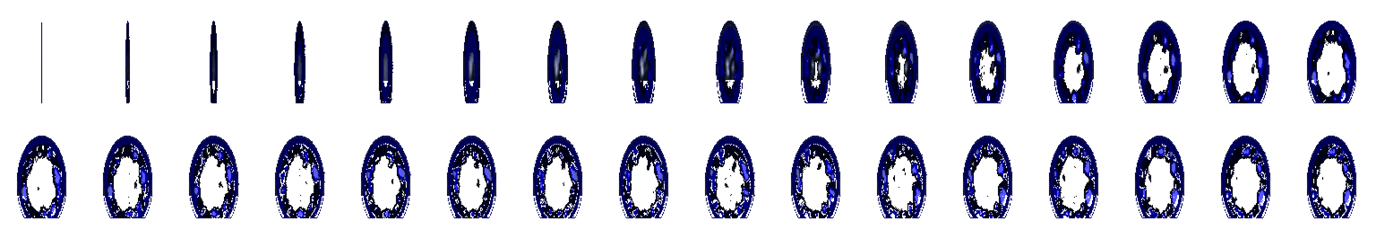
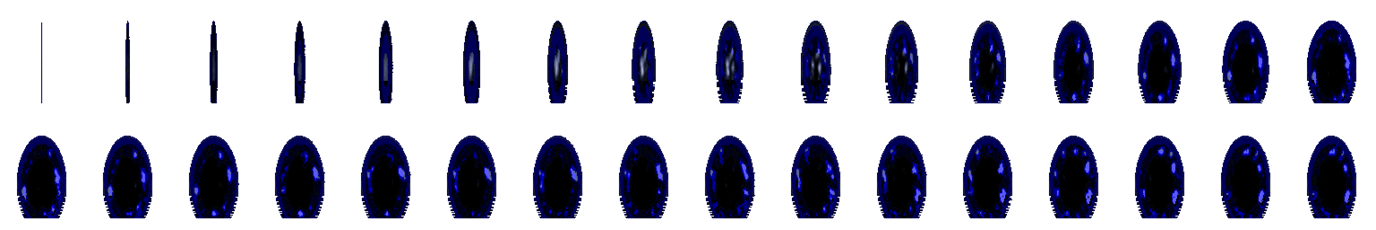
v1.12.090: the town portal's black centre is back in town (user: "the main blue town portal asset lost its black center when you shrunk it to 90% ... a transparent hole in the center") - vanilla's oval interior is palette index 0, opaque black in the CL2 but transparent once exported, and the 90% to

diff --git a/.ProjectDocumentation/02-Development-Reports/2026-09-20-town-portal-black-centre-v1.12.090.md b/.ProjectDocumentation/02-Development-Reports/2026-09-20-town-portal-black-centre-v1.12.090.md
@@ -1,0 +1,26 @@
+# The town portal's black centre is back (v1.12.090)
+
+**Date:** 2026-09-20 · **Version:** v1.12.090 · **Tests:** 831/831
+
+## The hole
+
+"the main blue town portal asset lost its black center when you shrunk it to 90% ... Now there is a transparent
+hole in the center of the asset." Town only, because only the town uses the PNG sheet (`missiles/portal_town.png`,
+`MissileGraphicID::TownPortalInTown` since v1.12.086); the dungeon-side portal still draws vanilla's CL2.
+
+The cause is not the scale but the format. Vanilla's oval is hollow in the data: its interior is palette index 0,
+which the CL2 renderer paints as opaque black. The exporter writes index 0 as transparent, and the PNG missile
+loader (`oracool/sprite_import.cpp`, `TransparentIndex = 0`) reads alpha 0 as "not drawn" - so the interior that
+was black in the CL2 became a hole in the sheet. The gold and violet rift sheets never showed it because they get
+an explicit centre fill (96,66,8 and 0,0,60) in `tools/BuildRiftPortals.ps1`; the town sheet was built with no fill.
+
+## The fix
+
+`tools/BuildRiftPortals.ps1`: the town sheet's call gets a fill of opaque black, `@(0, 0, 0)`, through the same
+row-by-row enclosure fill the rift sheets use (every transparent pixel between the ring's opaque pixels on its
+row). Opaque black quantises in the loader to a near-black index in the upper half of the palette (the nearest
+search starts at index 128), never to the transparent 0, so the fill draws. The three sheets were rebuilt; the gold
+and violet ones are byte-for-byte the same recipe as before. A four-frame preview over green showed the black
+interior with the blue rim and no shadow.
+
+Nothing in the engine changed; the archive picks up the new sheet at the configure-time repack.
